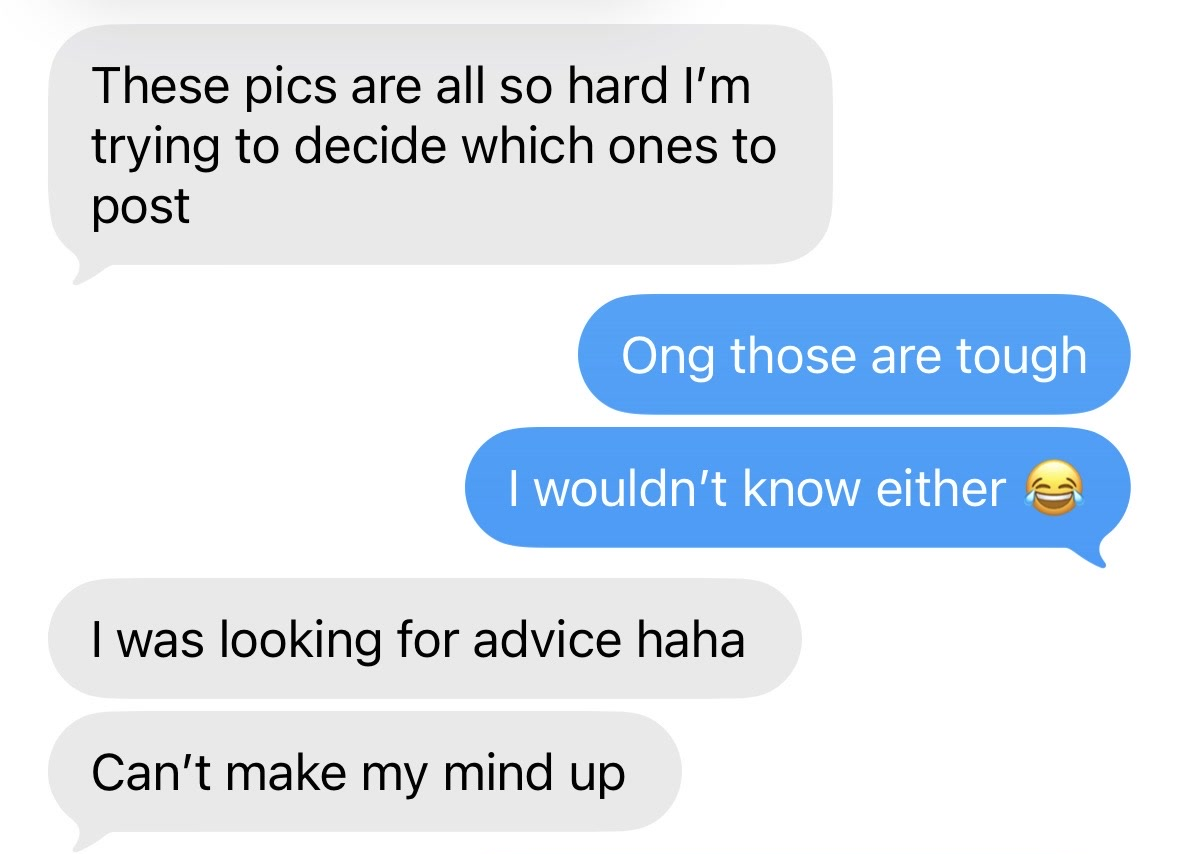
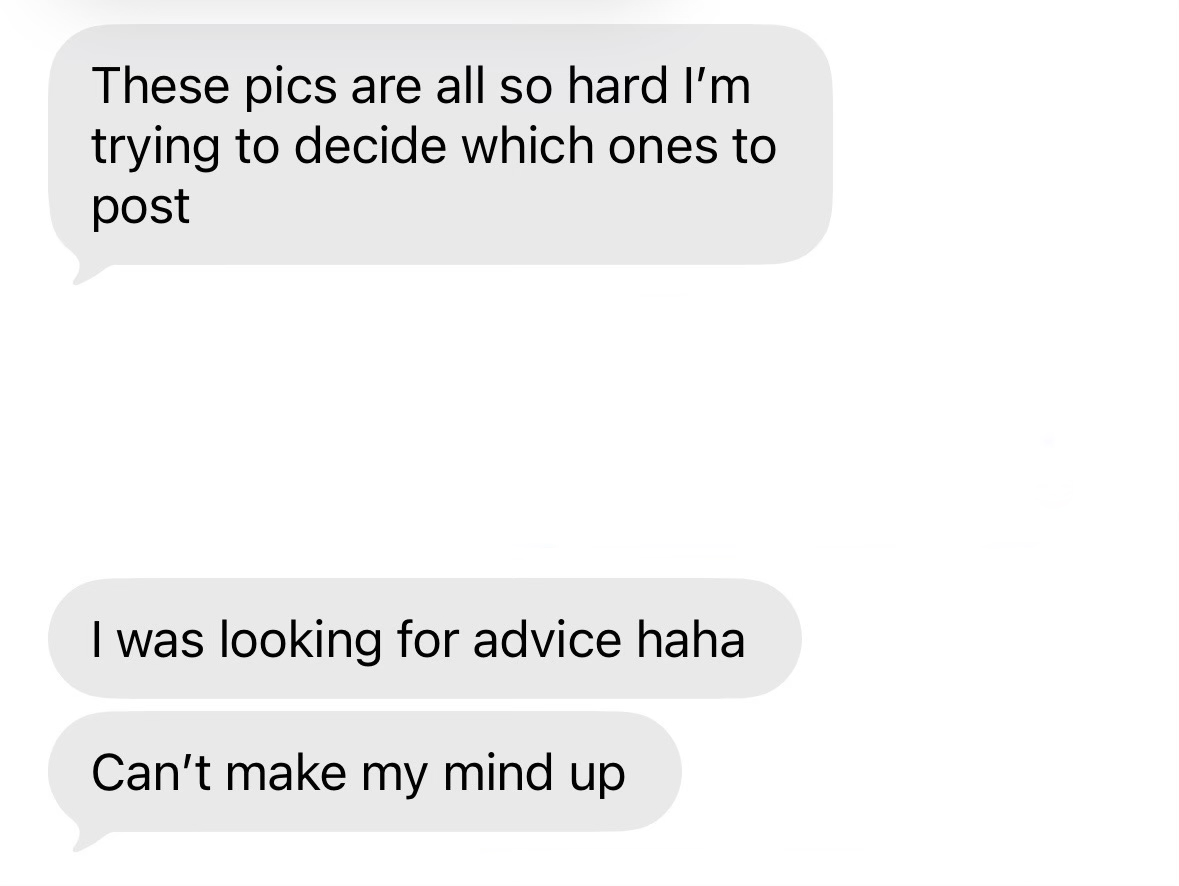
Edited plane-glasses review (replies removed)

diff --git a/index.html b/index.html
@@ -385,7 +385,7 @@
   <div class="reviews">
     <img src="reviews/IMG_3535.jpg" alt="Client text" loading="lazy">
     <img src="reviews/IMG_3527.jpg" alt="Client text" loading="lazy">
-    <img src="reviews/IMG_3534.jpg" alt="Client text" loading="lazy">
+    <img src="reviews/IMG_3534.jpg?v=2" alt="Client text" loading="lazy">
   </div>
   <div class="reviews">
     <img src="reviews/IMG_3526.jpg" alt="Client text" loading="lazy">
